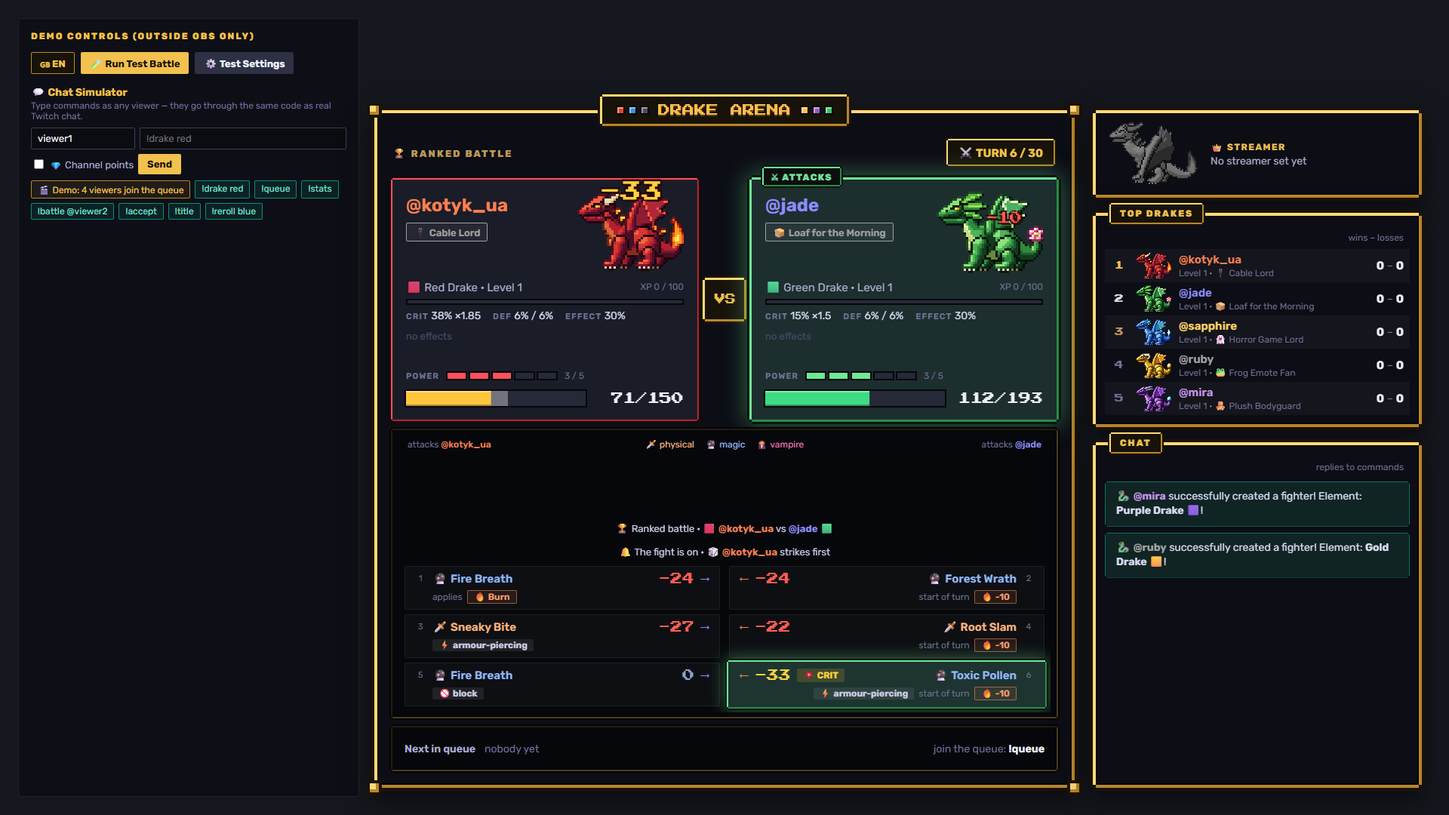
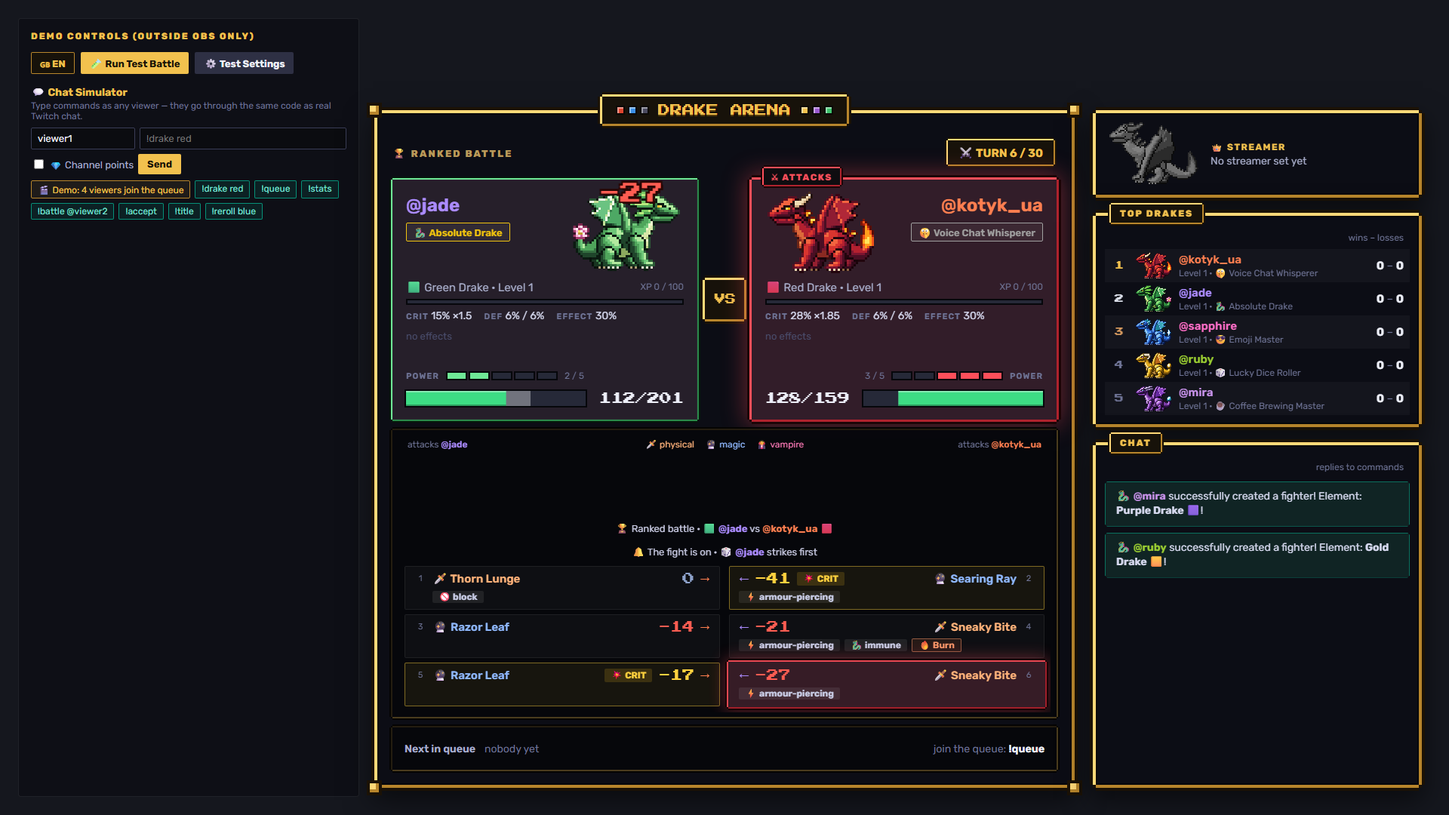
Fighters face each other, White Dragon at 3x, mirrored bars on the right card (visual only) (#11)
* Fighters face each other near the centre

The left card's drake is mirrored (its two canvases only: .sprite-wrap and .sprite-bob
already animate transform for the recoil and the bob). The right card puts its sprite on
the VS side, still facing left, with the name and title right-aligned, and its hit
numbers pop over its drake.

One rule beyond the tested CSS: #card-p2 .fc-id > * { max-width: 100%; }. Right-aligned,
the name and title boxes shrank to their text, so a long name or title ran left over the
drake (and past the card edge) and fitText never saw an overflow.

Tests: layout.js checks on every worst-case and White Dragon card (both languages, fonts
blocked, ?obs) that p1's canvases are mirrored and nothing else is, each sprite is on the
VS side at the same distance from the badge, and names and titles stay inside their
column, aligned to the outer edge. The White Dragon is checked on the right card too, and
hit numbers (a hit and a small "back" number, through fvPop) must land over each card's
drake. The review sheet copies the mirror onto its cloned card. ui.js checks the meter
against the sprite on both sides. Verified: main fails the new checks, and so do the
branch without the max-width rule and without the hit-number rule.

Visual only: balance gate output and the UI fight-events fingerprint (4f502d492b6a2814,
103 events) are identical to main. README screenshot and the review screenshots refreshed.

* White Dragon at exactly 3x on the fighter cards
[…]

diff --git a/tests/layout.js b/tests/layout.js
@@ -147,6 +147,112 @@ function layoutProblems() {
         const sizes = [...document.querySelectorAll(`#status-${p} .status-item`)].map(el => getComputedStyle(el).fontSize);
         if (new Set(sizes).size > 1) out.push(`#status-${p}: chips at different sizes (${sizes.join(', ')})`);
     }
+    // 7. The fighters face each other near the VS badge: the left drake is mirrored (its two canvases only — .sprite-wrap
+    //    and .sprite-bob animate transform), the right one isn't; each sprite is on the VS side of its card, both the same
+    //    distance from the badge; the name and title stay inside their column, left-aligned on p1, right-aligned on p2
+    const vs = r(document.querySelector('.vs-badge'));
+    const mirrored = el => { const t = getComputedStyle(el).transform; return t !== 'none' && new DOMMatrix(t).a < 0; };
+    const gaps = {};
+    for (const p of ['p1', 'p2']) {
+        const card = document.getElementById(`card-${p}`), wrap = card.querySelector('.sprite-wrap'), col = r(card.querySelector('.fc-id'));
+        for (const el of card.querySelectorAll('.drake-sprite, .sprite-flash')) if (mirrored(el) !== (p === 'p1')) out.push(`#card-${p} .${el.classList[0]} ${p === 'p1' ? "isn't mirrored (the drake faces away from the centre)" : 'is mirrored'}`);
+        for (const el of [wrap, card.querySelector('.sprite-bob')]) if (mirrored(el)) out.push(`#card-${p} .${el.classList[0]} is mirrored (only the canvases should be)`);
+        const W = r(wrap);
+        // Every sprite at exactly 3× its pixels: drakes 48×36 → 144×108, the White Dragon 60×42 → 180×126
+        const cv = card.querySelector('.drake-sprite'), S = r(cv), want = card.classList.contains('has-dragon') ? [180, 126] : [144, 108];
+        if (cv.width * 3 !== want[0] || cv.height * 3 !== want[1]) out.push(`#card-${p}: a ${cv.width}×${cv.height} sprite on a ${card.classList.contains('has-dragon') ? 'dragon' : 'drake'} card`);
+        for (const [what, B] of [['sprite box', W], ['sprite', S]])
+            if (Math.abs(B.width - want[0]) > 0.5 || Math.abs(B.height - want[1]) > 0.5) out.push(`#card-${p}: the ${what} is ${Math.round(B.width)}×${Math.round(B.height)}, not ${want.join('×')} (exactly 3×)`);
+        if (p === 'p1' ? W.left < col.right - 0.5 : W.right > col.left + 0.5) out.push(`#card-${p}: the sprite isn't on the VS side of the name column`);
+        gaps[p] = Math.round(p === 'p1' ? vs.left - W.right : W.left - vs.right);
+        for (const el of [document.getElementById(`name-${p}`), card.querySelector('.fighter-title-badge')]) {
+            if (!el || !visible(el)) continue;
+            const box = r(el), sq = el.querySelector(':scope > .squeeze'), drawn = sq ? r(sq) : box;
+            if (Math.min(box.left, drawn.left) < col.left - 1 || Math.max(box.right, drawn.right) > col.right + 1)
+                out.push(`#card-${p} ${label(el)} at ${Math.round(Math.min(box.left, drawn.left))}–${Math.round(Math.max(box.right, drawn.right))}, outside its column ${Math.round(col.left)}–${Math.round(col.right)}`);
+            const off = p === 'p1' ? box.left - col.left : col.right - box.right;
+            if (Math.abs(off) > 1.5) out.push(`#card-${p} ${label(el)} isn't ${p === 'p1' ? 'left' : 'right'}-aligned (${Math.round(off)} px from the column edge)`);
+        }
+    }
+    if (Math.abs(gaps.p1 - gaps.p2) > 1) out.push(`the sprites aren't the same distance from the VS badge: ${gaps.p1} and ${gaps.p2} px`);
+    // 8. The bars are mirrored on the right card: the HP number sits next to the VS badge (drawn against the VS edge of
+    //    its box), the HP, ghost and XP fills grow from the outer edge; the info line, stats and chips stay left-aligned on
+    //    both cards; the HP rows of the two cards are level (the White Dragon's card too)
+    const hpRows = {};
+    for (const p of ['p1', 'p2']) {
+        const card = document.getElementById(`card-${p}`), outer = p === 'p1' ? 'left' : 'right';
+        const track = r(card.querySelector('.hp-bar-container')), textEl = document.getElementById(`hp-text-${p}`), T = r(textEl);
+        if (p === 'p1' ? T.left < track.right - 0.5 : T.right > track.left + 0.5) out.push(`#card-${p}: the HP number isn't on the VS side of its bar`);
+        const sq = textEl.querySelector(':scope > .squeeze'), range = document.createRange();
+        range.selectNodeContents(sq || textEl);
+        const drawn = sq ? r(sq) : range.getBoundingClientRect();
+        const off = p === 'p1' ? T.right - drawn.right : drawn.left - T.left;
+        if (drawn.width > 0 && Math.abs(off) > 1.5) out.push(`#card-${p}: the HP number is drawn ${Math.round(off)} px from the VS edge of its box`);
+        for (const el of [document.getElementById(`bar-${p}`), document.getElementById(`ghost-${p}`), document.getElementById(`xpbar-${p}`)]) {
+            const ox = parseFloat(getComputedStyle(el).transformOrigin), w = el.offsetWidth;
+            if (Math.abs(ox - (outer === 'left' ? 0 : w)) > 0.5) out.push(`#card-${p} #${el.id} doesn't grow from the ${outer} (outer) edge: transform-origin x = ${ox} of ${w}`);
+        }
+        const line = r(card.querySelector('.fc-line'));
+        for (const [el, box] of [[document.getElementById(`info-${p}`), line], [card.querySelector('.fighter-stats-sub > *'), r(card.querySelector('.fighter-stats-sub'))], [card.querySelector(`#status-${p} .status-item`), r(document.getElementById(`status-${p}`))]])
+            if (el && visible(el) && Math.abs(r(el).left - box.left) > 1.5) out.push(`#card-${p} ${label(el)} isn't left-aligned (${Math.round(r(el).left - box.left)} px in)`);
+        hpRows[p] = r(card.querySelector('.fc-hp'));
+    }
+    if (Math.abs(hpRows.p1.top - hpRows.p2.top) > 1 || Math.abs(hpRows.p1.bottom - hpRows.p2.bottom) > 1) out.push(`the HP rows aren't level: ${Math.round(hpRows.p1.top)} and ${Math.round(hpRows.p2.top)}`);
+    return out;
+}
+
+// Runs in the page: where each card's bars fill from, with partial values. Sets the HP fill to 50% and its ghost to 80%
+// (transitions off), the XP fill to 30%, and the СИЛА meter to 2 of 5 and then full with the game's renderPowerMeter;
+// puts everything back. The fill must touch the outer edge, the ghost's visible part (lost HP) sit on the VS side of the
+// fill, the lit pips sit at the outer end, the label at the outer end of the row and the count / "✦ READY" on the VS side
+function barSides() {
+    const out = [], R = el => el.getBoundingClientRect();
+    for (const p of ['p1', 'p2']) {
+        const card = document.getElementById(`card-${p}`), left = p === 'p1';
+        const outerGap = (el, box) => left ? R(el).left - R(box).left : R(box).right - R(el).right;
+        const bar = document.getElementById(`bar-${p}`), ghost = document.getElementById(`ghost-${p}`), xp = document.getElementById(`xpbar-${p}`);
+        const saved = [bar, ghost, xp].map(el => [el.style.transition, el.style.transform]);
+        [[bar, 0.5], [ghost, 0.8], [xp, 0.3]].forEach(([el, s]) => { el.style.transition = 'none'; el.style.transform = `scaleX(${s})`; });
+        const track = bar.parentElement, B = R(bar), G = R(ghost), Tr = R(track);
+        if (Math.abs(outerGap(bar, track)) > 1) out.push(`#card-${p}: the HP fill doesn't start at the outer edge (${Math.round(outerGap(bar, track))} px off)`);
+        if (Math.abs(outerGap(xp, xp.parentElement)) > 1) out.push(`#card-${p}: the XP fill doesn't start at the outer edge (${Math.round(outerGap(xp, xp.parentElement))} px off)`);
+        // the ghost's visible part: from the fill's end towards the VS side
+        const lost = left ? [B.right, G.right] : [G.left, B.left];
+        if (!(lost[1] - lost[0] > 0.25 * Tr.width && (left ? G.left <= B.left + 1 : G.right >= B.right - 1))) out.push(`#card-${p}: the HP ghost (lost HP) isn't on the VS side of the fill (fill ${Math.round(B.left)}–${Math.round(B.right)}, ghost ${Math.round(G.left)}–${Math.round(G.right)})`);
+        [bar, ghost, xp].forEach((el, i) => { el.style.transition = 'none'; el.style.transform = saved[i][1]; void el.offsetWidth; el.style.transition = saved[i][0]; });
+        if (card.classList.contains('has-dragon')) continue;   // no СИЛА row (checked in layoutProblems)
+        const meter = document.getElementById(`power-${p}`), html = meter.innerHTML, cls = meter.className, title = meter.title;
+        for (const v of [2, METER.max]) {
+            renderPowerMeter(p, 'red', { meter: v });
+            const pips = [...meter.querySelectorAll('.pm-pip')], on = pips.filter(x => x.classList.contains('on')), pipsBox = R(meter.querySelector('.pm-pips'));
+            const lab = R(meter.querySelector('.pm-label')), tail = meter.querySelector(v >= METER.max ? '.pm-ready' : '.pm-count');
+            const outerFirst = [...pips].sort((a, b) => left ? R(a).left - R(b).left : R(b).left - R(a).left);
+            if (on.length !== v || outerFirst.slice(0, v).some(x => !x.classList.contains('on'))) out.push(`#card-${p}: with ${v} of ${METER.max} the lit СИЛА pips aren't at the outer end`);
+            if (left ? lab.right > pipsBox.left + 0.5 : lab.left < pipsBox.right - 0.5) out.push(`#card-${p}: the СИЛА label isn't at the outer end of the row`);
+            if (!tail || (left ? R(tail).left < pipsBox.right - 0.5 : R(tail).right > pipsBox.left + 0.5)) out.push(`#card-${p}: "${tail ? tail.textContent : '?'}" isn't on the VS side of the pips`);
+            const M = R(meter);
+            for (const c of meter.children) if (R(c).left < M.left - 0.5 || R(c).right > M.right + 0.5) out.push(`#card-${p}: the СИЛА row's ${c.className} sticks out of the row`);
+        }
+        meter.innerHTML = html; meter.className = cls; meter.title = title;
+    }
+    return out;
+}
+
+// Runs in the page: drops a damage number and a small "back" number on each card (the game's own fvPop) and says
+// whether each one's centre lands over that card's drake; removes them again
+function popPositions() {
+    const out = [];
+    for (const p of ['p1', 'p2']) {
+        fvPop(p, '-99', 'crit');
+        fvPop(p, '+9', 'small heal', 1);
+        const card = document.getElementById(`card-${p}`), W = card.querySelector('.sprite-wrap').getBoundingClientRect();
+        for (const pop of card.querySelectorAll('.dmg-pop')) {
+            const P = pop.getBoundingClientRect(), x = (P.left + P.right) / 2, y = (P.top + P.bottom) / 2;
+            out.push({ p, text: pop.textContent, over: x >= W.left && x <= W.right && y >= W.top && y <= W.bottom,
+                       at: `${Math.round(x)},${Math.round(y)}`, drake: `${Math.round(W.left)}–${Math.round(W.right)} × ${Math.round(W.top)}–${Math.round(W.bottom)}` });
+            pop.remove();
+        }
+    }
     return out;
 }
 
@@ -254,6 +360,10 @@ async function layoutChecks(browser, lang, blockFonts) {
     check(!problems.length, `${tag} worst case fits at 1920×1080: name "${worst.longName}", title "${worst.longTitle}", "${worst.longDrake}", 4 longest chips, full СИЛА + Ice Mirror, 7 leaderboard rows, a stats card`,
         problems.slice(0, 6).join(' | '));
     await page.screenshot({ path: path.join(SHOTS, `layout-worst-${lang}${blockFonts ? '-nofonts' : ''}.png`) });
+    const pops = await page.evaluate(popPositions);
+    check(pops.length === 4 && pops.every(x => x.over), `${tag} hit numbers pop over each card's drake (a hit and a small "back" number on both cards)`, JSON.stringify(pops.filter(x => !x.over)));
+    const sides = await page.evaluate(barSides);
+    check(!sides.length, `${tag} the bars fill from the outer edge on both cards (lost HP and the СИЛА count / ready on the VS side)`, sides.slice(0, 5).join(' | '));
     // The White Dragon's card: no СИЛА row, taller sprite, still fits
     await page.evaluate(() => {
         const dragonTitle = TITLES_DB.find(t => t.id === DRAGON_TITLE_ID);
@@ -264,6 +374,24 @@ async function layoutChecks(browser, lang, blockFonts) {
     await settle(page);
     const dragonProblems = await page.evaluate(layoutProblems);
     check(!dragonProblems.length, `${tag} the White Dragon's card (3× sprite, no СИЛА row, two chips) fits`, dragonProblems.slice(0, 5).join(' | '));
+    // ...and on the right card, where its sprite sits on the VS side
+    await page.evaluate(() => {
+        const dragonTitle = TITLES_DB.find(t => t.id === DRAGON_TITLE_ID);
+        const d = { name: 'wmwmwmwmwmwmwmwmwmwmwmwmw', color: '#bfe9ff', drakeObj: DRAKE_TYPES.find(x => x.type === DRAGON_TYPE), title: dragonTitle, xp: 1000000 };
+        updateFighterCard('p2', d, { buff: [], debuff: [], meter: 0, halfDone: false, mirror: 0 });
+        updateStatusUI(d.name, 20, DRAGON_TYPE, dragonTitle, { buff: [], debuff: [] });
+    });
+    await settle(page);
+    const dragonRight = await page.evaluate(layoutProblems);
+    check(!dragonRight.length, `${tag} the White Dragon on the right card fits, its sprite on the VS side`, dragonRight.slice(0, 5).join(' | '));
+    // Both cards now show the dragon: its sprite box is exactly 3× (180×126) on either card, not the drakes' 144×108
+    const dragonBoxes = await page.evaluate(() => ['p1', 'p2'].map(p => [`#card-${p} .sprite-wrap`, `#card-${p} .drake-sprite`]
+        .map(s => { const R = document.querySelector(s).getBoundingClientRect(); return `${Math.round(R.width)}×${Math.round(R.height)}`; }).join(' / ')));
+    check(dragonBoxes.every(s => s === '180×126 / 180×126'), `${tag} the White Dragon's sprite box is 180×126 (exactly 3×) on either card`, dragonBoxes.join(', '));
+    const dragonPops = await page.evaluate(popPositions);
+    check(dragonPops.length === 4 && dragonPops.every(x => x.over), `${tag} hit numbers pop over the White Dragon on either card`, JSON.stringify(dragonPops.filter(x => !x.over)));
+    const dragonSides = await page.evaluate(barSides);
+    check(!dragonSides.length, `${tag} the White Dragon's bars fill from the outer edge on either card`, dragonSides.slice(0, 5).join(' | '));
     if (errors.length) fail(`${tag} page errors: ${errors.slice(0, 3).join(' | ')}`);
     await context.close();
 }
@@ -606,6 +734,8 @@ async function layoutChecks(browser, lang, blockFonts) {
                     card.removeAttribute('id'); card.querySelectorAll('[id]').forEach(e => e.removeAttribute('id'));
                     const src = document.getElementById('sprite-p1'), dst = card.querySelector('canvas');
                     dst.width = src.width; dst.height = src.height; dst.getContext('2d').drawImage(src, 0, 0);
+                    // The clone has no #card-p1, so copy the left card's mirror onto its canvases, as drawn on stream
+                    card.querySelectorAll('.drake-sprite, .sprite-flash').forEach(c => { c.style.transform = getComputedStyle(src).transform; });
                     card.style.height = '318px'; card.style.animation = 'none';
                     const cell = document.createElement('div');
                     cell.style.cssText = 'display:flex;flex-direction:column;gap:14px;';

diff --git a/showcase/index.html b/showcase/index.html
@@ -92,6 +92,12 @@
         .drake-sprite { display: block; width: 100%; height: 100%; image-rendering: pixelated; image-rendering: crisp-edges; }
         .sprite-flash { position: absolute; inset: 0; width: 100%; height: 100%; image-rendering: pixelated; opacity: 0; }
         @keyframes drakeBob { 0%, 100% { transform: translateY(0); } 50% { transform: translateY(-3px); } }
+        /* The fighters face each other, close to the centre: the left drake is mirrored (the canvases only: .sprite-wrap and
+           .sprite-bob animate transform), the right card puts its sprite on the VS side with the name and title right-aligned */
+        #card-p1 .drake-sprite, #card-p1 .sprite-flash { transform: scaleX(-1); }
+        #card-p2 .fc-top { flex-direction: row-reverse; }
+        #card-p2 .fc-id { align-items: flex-end; text-align: right; }
+        #card-p2 .fc-id > * { max-width: 100%; }   /* right-aligned items shrink to their text: keep a long name or title inside the column so fitText sees it */
         .fc-line { display: flex; justify-content: space-between; align-items: center; gap: 10px; font-size: 15px; color: var(--muted); flex-shrink: 0; white-space: nowrap; }
         .fighter-info { overflow: hidden; min-width: 0; }
         .fc-xp { font-size: 12px; color: var(--dim); flex-shrink: 0; }
@@ -124,6 +130,12 @@
         .fc-hp { display: flex; align-items: center; gap: 12px; margin-top: auto; flex-shrink: 0; }
         .hp-bar-container { height: 20px; }
         .hp-text { font-family: var(--pixel); font-size: 16px; color: var(--text); width: 118px; text-align: right; white-space: nowrap; overflow: hidden; }
+        /* The right card's bars are mirrored, so lost HP disappears on the VS side of both cards: the HP number sits next to
+           the VS badge, the HP, ghost and XP bars and the СИЛА pips fill from the outer edge (info line, stats and chips stay left-aligned) */
+        #card-p2 .fc-hp { flex-direction: row-reverse; }
+        #card-p2 .hp-text { text-align: left; }
+        #card-p2 .px-fill, #card-p2 .hp-ghost { transform-origin: 100% 50%; }
+        #card-p2 .power-meter, #card-p2 .pm-pips { flex-direction: row-reverse; }
 
         /* ===== Turn animation: pre-drawn layers that only fade (opacity) or move (transform), so OBS doesn't drop frames ===== */
         .fx-layer { position: absolute; pointer-events: none; }
@@ -153,6 +165,7 @@
         .dmg-pop.zero { color: #8ea3cc; text-shadow: 3px 3px 0 #0b1020, -2px -2px 0 #0b1020, 2px -2px 0 #0b1020, -2px 2px 0 #0b1020, 2px 2px 0 #0b1020; }
         .dmg-pop.heal { color: #4dff7a; text-shadow: 3px 3px 0 #04200c, -2px -2px 0 #04200c, 2px -2px 0 #04200c, -2px 2px 0 #04200c, 2px 2px 0 #04200c; }
         .dmg-pop.small { font-size: 16px; top: 46px; }
+        #card-p2 .dmg-pop { right: auto; left: 46px; }   /* over the right card's drake, which sits on the VS side */
         @keyframes dmgPop { 0% { opacity: 0; transform: translateY(10px) scale(0.7); } 12% { opacity: 1; transform: translateY(0) scale(1.15); } 25% { transform: translateY(0) scale(1); }
             75% { opacity: 1; transform: translateY(-6px); } 100% { opacity: 0; transform: translateY(-18px); } }
 
@@ -1772,7 +1785,8 @@ function drakeSpriteURL(type) {
             const src = makeDrakeCanvas(type);
             g.clearRect(0, 0, target.width, target.height);
             const isDragon = type === DRAGON_TYPE;
-            if (target.parentElement) target.parentElement.classList.toggle('dragon', isDragon);
+            const wrap = target.closest && target.closest('.sprite-wrap');   // the 3× box (.sprite-wrap.dragon is 180×126)
+            if (wrap) wrap.classList.toggle('dragon', isDragon);
             const card = document.getElementById(`card-${prefix}`);
             if (card && card.classList) card.classList.toggle('has-dragon', isDragon);
             if (src) {

diff --git a/tests/ui.js b/tests/ui.js
@@ -118,12 +118,15 @@ function powerMeters() {
         const row = document.getElementById(`power-${p}`), r = row.getBoundingClientRect();
         const chips = document.getElementById(`status-${p}`).getBoundingClientRect(), hp = row.parentElement.querySelector('.fc-hp').getBoundingClientRect();
         const sprite = row.parentElement.querySelector('.sprite-wrap').getBoundingClientRect();
-        const content = [...row.children].reduce((m, c) => Math.max(m, c.getBoundingClientRect().right), r.left);
+        // the row's content, from its leftmost to its rightmost child (the right card's row is reversed)
+        const kids = [...row.children].map(c => c.getBoundingClientRect()), from = kids.length ? Math.min(...kids.map(c => c.left)) : r.left;
+        const content = kids.length ? Math.max(...kids.map(c => c.right)) : r.left;
         const name = document.getElementById(`name-${p}`).innerText.replace('@', '').trim();
         const st = isBattleRunning && typeof battleFx !== 'undefined' && battleFx && battleFx[name];   // between fights the cards are idle
         return { p, text: row.innerText.replace(/\s+/g, ' ').trim(), pips: row.querySelectorAll('.pm-pip').length, on: row.querySelectorAll('.pm-pip.on').length,
                  meter: st ? st.meter : null, overlapsChips: r.height > 0 && r.top < chips.bottom - 0.5, overlapsHp: r.height > 0 && r.bottom > hp.top + 0.5,
-                 overlapsSprite: content > sprite.left + 0.5 && r.bottom > sprite.top && r.top < sprite.bottom, cut: row.scrollWidth > row.clientWidth + 1,
+                 // the sprite is on the right of the left card and on the left of the right card: check both sides
+                 overlapsSprite: Math.min(content, sprite.right) > Math.max(from, sprite.left) + 0.5 && r.bottom > sprite.top && r.top < sprite.bottom, cut: row.scrollWidth > row.clientWidth + 1,
                  // A hit in the air (turn step 1 → 2, 0.6 s): the cards deliberately show the state from before the hit
                  inAir: typeof fv !== 'undefined' && !!fv.hold };
     });

diff --git a/TESTING.md b/TESTING.md
@@ -415,7 +415,10 @@ It also saves screenshots at each stage to `tests/screenshots/` (`showcase-01-re
 | Check | What it catches |
 |---|---|
 | **Worst case fits**: both cards get the longest name (25 wide letters, Twitch's maximum), the longest title and drake name in that language, the four longest chips, a full СИЛА meter with Ice Mirror's hits, 9999/9999 HP; the leaderboard is full and a stats card is in the chat panel. Then nothing overlaps its siblings (arena blocks, cards, card rows, header, queue, side panels, leaderboard rows, chat cards), no text box is cut off (wider or taller than its box), and nothing sticks out of its panel. The arena must be at 500,150 (920 wide) and the side column at 1452,150 (428 wide) | Long text overflowing, card rows colliding, the layout drifting from the reference |
-| The СИЛА row on every card sits between the chips and the HP bar; the White Dragon's card has none, and its 3× sprite still fits. The chips on one card are all the same size (they shrink together) | The meter in the wrong place, or on the dragon; one chip row smaller than the other |
+| The СИЛА row on every card sits between the chips and the HP bar; the White Dragon's card has none, and its sprite still fits. Every sprite box is exactly 3× its pixels: 144×108 for a drake, 180×126 for the White Dragon on either card. The chips on one card are all the same size (they shrink together) | The meter in the wrong place, or on the dragon; one chip row smaller than the other; the dragon squeezed into a drake's box |
+| **Fighters face each other**, in every worst-case and White Dragon check above: the left drake's two canvases are mirrored and the right drake's aren't (`.sprite-wrap` / `.sprite-bob`, which animate transform, never are); each sprite is on the VS side of its card, both the same distance from the badge; the name and title badge are drawn inside their column, left-aligned on the left card and right-aligned on the right one. The White Dragon is checked on the right card too | A drake facing away from its opponent, the recoil or bob losing the mirror, a long name or title running over the right card's sprite |
+| **Hit numbers**: a hit and a small "back" number dropped on each card with the game's own `fvPop` (viewers' drakes, and the White Dragon on either card) land with their centre over that card's drake | Hit numbers popping over the name column instead of the drake |
+| **Bars mirrored on the right card**, in every worst-case and White Dragon check: the HP number is on the VS side of its bar and drawn against the VS edge of its box; the HP, ghost and XP fills grow from the outer edge (`transform-origin`); the info line, the stats and the first effect chip are left-aligned on both cards; the two HP rows are level. Then, with partial values set on each card (HP 50%, ghost 80%, XP 30%, and the game's own `renderPowerMeter` at 2 of 5 and full): the fills touch the outer edge, the ghost's visible part (lost HP) is on the VS side of the fill, the lit СИЛА pips are at the outer end with the label, and the count / "✦ READY" is on the VS side of the pips (skipped on the White Dragon's card, which has no meter) | The right card's HP draining towards its outer edge, its HP number away from the VS badge, a meter filling from the wrong end, the info line or stats following the mirror |
 | **Fonts blocked**: the same checks with `fonts.googleapis.com` / `fonts.gstatic.com` blocked (and Rubik confirmed not loaded) | The fallback font being wider than Rubik and breaking the fit |
 | **`?obs`**: html, body and stage are transparent, and no visible element is in the camera column (x < 476) or the notification strip above the arena (y < 118) | Something drawn over the streamer's camera or alerts |
 | **Without `?obs`**: the language button, test menu (opened) and chat simulator sit inside the camera column; the 🎬 Demo chip registers four drakes and starts a fight; typing a command and pressing Send registers a drake; the test menu opens and "Run test battle" starts a fight; the language button switches to English; the camera column never overlaps the arena or side column | Demo controls broken, or covering the overlay |
@@ -512,6 +515,8 @@ To check visuals yourself, open `showcase/index.html` in a browser and use the C
 | Bug | Found by | Symptom | Fix |
 |---|---|---|---|
 | Info feed clipping | The UI test's automated info-feed overflow check | Tall reply cards (`!стата` stat cards, `!шанси` odds) could fill the chat-request panel before the 4-card limit was reached, so the oldest card was cut off at the bottom of its column | `addInfo` now also drops the oldest cards while the feed's content is taller than the panel, so every card on screen is shown whole |
+| Right card's long name over its sprite | Manual check while moving the sprites to the VS side, **not** the tests: every existing check passed | With the right card's sprite on the VS side, a long name or title ran left over the drake (and past the card edge). Right-aligned, the name box grew with its text, so nothing looked cut off and `fitText` never shrank it | `#card-p2 .fc-id > * { max-width: 100%; }`, so `fitText` sees the overflow; `layout.js` now checks that names and titles stay inside their column |
+| White Dragon squeezed into a drake's box | Manual review of the face-each-other change, **not** the tests: the dragon check only asked that its card fit | `drawFighterSprite` put the `dragon` class on `.sprite-bob` instead of `.sprite-wrap`, so `.sprite-wrap.dragon` (180×126) never applied and the 60×42 dragon was drawn in the drakes' 144×108 box, not at 3× | The class goes on the canvas's `.sprite-wrap`; `layout.js` now checks every sprite box is exactly 3× (180×126 for the dragon on either card) |
 | Title badge clipping | Manual visual review, **not** the tests: every automated check was passing at the time | The title badge under a fighter's name had its bottom edge cut off. It was an `inline-block` sitting on the text baseline, which put it about 5 px low inside its fixed-height, `overflow: hidden` container | `vertical-align: top` on `.fighter-title-badge` |
 
 **Green automation doesn't prove readability.** The checks only catch what they measure: HP bars moving, the feed overflowing, errors. A badge cut off inside its own fixed-height box breaks none of those rules, so every test passed while the overlay looked wrong. Look at the screenshots (or the page itself) after any visual change.

diff --git a/CLAUDE.md b/CLAUDE.md
@@ -12,7 +12,7 @@ The root `index.html` only redirects to `showcase/index.html` (for GitHub Pages)
 - Class ultimates: the `CLASS_ULTIMATES` table (one per viewer element: icon, uk/en names, `nums`, description) and `METER` (Element Power meter). Same rule as effects: names and icons live only in the table; the description placeholders fill in the numbers. The White Dragon has no meter. The meter row on the cards sits between the effect chips and the HP row, in a fixed-height row, so nothing moves.
 - Fight loop: `runBattle`, `pickEffect`, `applyEffect`, `finishBattle`, `checkQueue` (ranked fights and duels start through `startFight`, which adds the optional betting window).
 - Fight view (the battle log cards, turn animation, countdown, result card): the `fv*` functions, after `renderResultTags`. Visual only: the fight calls `fvTurn` / `fvTick` / `fvNote` / `fvAttack` / `fvCast` … to record what happened (never a roll, never a number the fight uses), and the view draws it. Between step 1 and step 2 of a turn (`HIT_DELAY_MS`) visual updates (`updateUIHP`, `updateFighterCard`, `setArenaState`, …) are held and shown together. `FV_LIVE` is false in Node, so the sims and the effect/ultimate tests run the fight exactly as before. `addLog` is the hidden text record they read: keep its lines as they are. Move names live in `MOVE_NAMES`; animate only transform and opacity.
-- Sprites: `DRAKE_SPRITES` (palette + pixel rows per type), between the `// ===== SPRITES START/END =====` markers; `makeDrakeCanvas` draws them, `drawFighterSprite` puts them on the fighter cards. Drakes are 48x36, the dragon 60x42; all face left (nothing is mirrored) and display at exactly 3x on the fighter cards (`.sprite-wrap` 144x108, dragon 180x126 with a taller `.fc-top`), 1x in the leaderboard.
+- Sprites: `DRAKE_SPRITES` (palette + pixel rows per type), between the `// ===== SPRITES START/END =====` markers; `makeDrakeCanvas` draws them, `drawFighterSprite` puts them on the fighter cards. Drakes are 48x36, the dragon 60x42; all are drawn facing left. On the fighter cards the two drakes face each other near the VS badge: the left card mirrors its two canvases (`#card-p1 .drake-sprite, .sprite-flash`; never `.sprite-wrap` / `.sprite-bob`, which animate transform), the right card puts its sprite on the VS side (`row-reverse`, name and title right-aligned) and its hit numbers over it, and mirrors its bars (`#card-p2 .fc-hp`, `.px-fill` / `.hp-ghost` origin, `.power-meter` / `.pm-pips`), so on both cards the HP number sits next to the VS badge, lost HP disappears on the VS side, and HP, XP and СИЛА fill from the outer edge; the info line, stats and chips stay left-aligned. They display at exactly 3x on the fighter cards (`.sprite-wrap` 144x108, dragon 180x126 with a taller `.fc-top`), 1x in the leaderboard.
 - Streamer-only White Dragon: type `'white'` (`DRAGON_TYPE`, its own 60x42 wyvern in `DRAKE_SPRITES`, title 999). Only `STREAMER_USER` (empty by default, editable in Test Settings) can pick it. Viewers' old White Drake is now the Green Drake (`greenHp`). Random picks and balance sims use `VIEWER_DRAKE_TYPES`.
 - Saves: `migrateOldSaves` runs on load (and when the streamer setting changes) — extend it when the data format changes, and keep every step idempotent. Players' saves live in `localStorage`; never break save compatibility.
 
